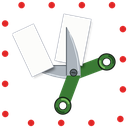
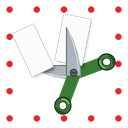
Длинные ножницы: ровная иконка и баннер

diff --git a/docs/long-scissors.html b/docs/long-scissors.html
@@ -8,11 +8,11 @@
 <link rel="canonical" href="https://drugoj00.github.io/phone-in-window-with-sound/long-scissors.html">
 <meta property="og:title" content="Long Scissors">
 <meta property="og:description" content="Windows screenshots with long scrolling pages, video and GIF, editor, copy text. Free.">
-<meta property="og:image" content="https://drugoj00.github.io/phone-in-window-with-sound/ls_social.png">
+<meta property="og:image" content="https://drugoj00.github.io/phone-in-window-with-sound/ls_social2.png">
 <meta property="og:image:width" content="1280">
 <meta property="og:image:height" content="640">
 <meta name="twitter:card" content="summary_large_image">
-<meta name="twitter:image" content="https://drugoj00.github.io/phone-in-window-with-sound/ls_social.png">
+<meta name="twitter:image" content="https://drugoj00.github.io/phone-in-window-with-sound/ls_social2.png">
 <meta property="og:type" content="website">
 <meta property="og:url" content="https://drugoj00.github.io/phone-in-window-with-sound/long-scissors.html">
 <link rel="icon" href="ls_icon.png">
